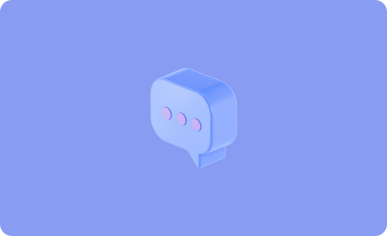
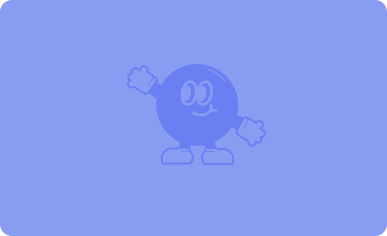
add: videochatroom view img

Changed region(s): [[0.3411, 0.2669, 0.6822, 0.7119], [0.3101, 0.2966, 0.3411, 0.3559], [0.3411, 0.2669, 0.3721, 0.2966]]

diff --git a/src/components/VideoChatRoom.js b/src/components/VideoChatRoom.js
@@ -16,6 +16,7 @@ import PostChat from "../components/PostChat";
 import VideoModal from "../components/VideoModal";
 import { getContrastRatio } from "@material-ui/core";
 import CameraBtn from "./CameraBtn";
+import poster from "../Images/view.png";
 dotenv.config();
 
 const GroupContainer = styled.div`
@@ -113,9 +114,13 @@ export default function VideoChatRoom() {
     if (cameraOn) {
       let video = allStream.current.getTracks();
       video[0].enabled = false;
+      let src = document.querySelector(".video_non_src");
+      src.style.display = "block";
     } else {
       let video = allStream.current.getTracks();
       video[0].enabled = true;
+      let src = document.querySelector(".video_non_src");
+      src.style.display = "none";
     }
   };
 
@@ -344,7 +349,7 @@ export default function VideoChatRoom() {
           // console.log(mediaConnection);
           const videoBox = document.createElement("div");
           videoBox.classList.add("video_box");
-          console.log("div 클래스 추가 videobox");
+          // console.log("div 클래스 추가 videobox");
           const peerVideo = document.createElement("video");
           const txtBox = document.createElement("div");
           // console.log("div 추가");
@@ -501,6 +506,13 @@ export default function VideoChatRoom() {
             </GroupTimer>
             <div id="video-grid" ref={videoContainer}>
               <div className="video_box" ref={videoGrid}>
+                <div
+                  className="video_non_src"
+                  onMouseOver={() => {
+                    videoBack.current.style.display = "block";
+                    setDisplay(!display);
+                  }}
+                ></div>
                 <video
                   ref={myVideo}
                   className="myvideo"
@@ -524,6 +536,7 @@ export default function VideoChatRoom() {
                   display={display}
                   handleCamera={handleCamera}
                 />
+
                 <div className="userview_txtbox clearfix">
                   <img src={profile} alt="프로필" className="fl" />
                   <div className="userview_name fl">

diff --git a/src/styles/css/Group.css b/src/styles/css/Group.css
@@ -321,3 +321,13 @@
   opacity: 0.7;
   display: none;
 }
+.video_non_src {
+  width: 387px;
+  height: 236px;
+  position: absolute;
+  top: 0;
+  left: 0;
+  border-radius: 11px;
+  background-image: url(../../Images/view.png);
+  display: none;
+}
